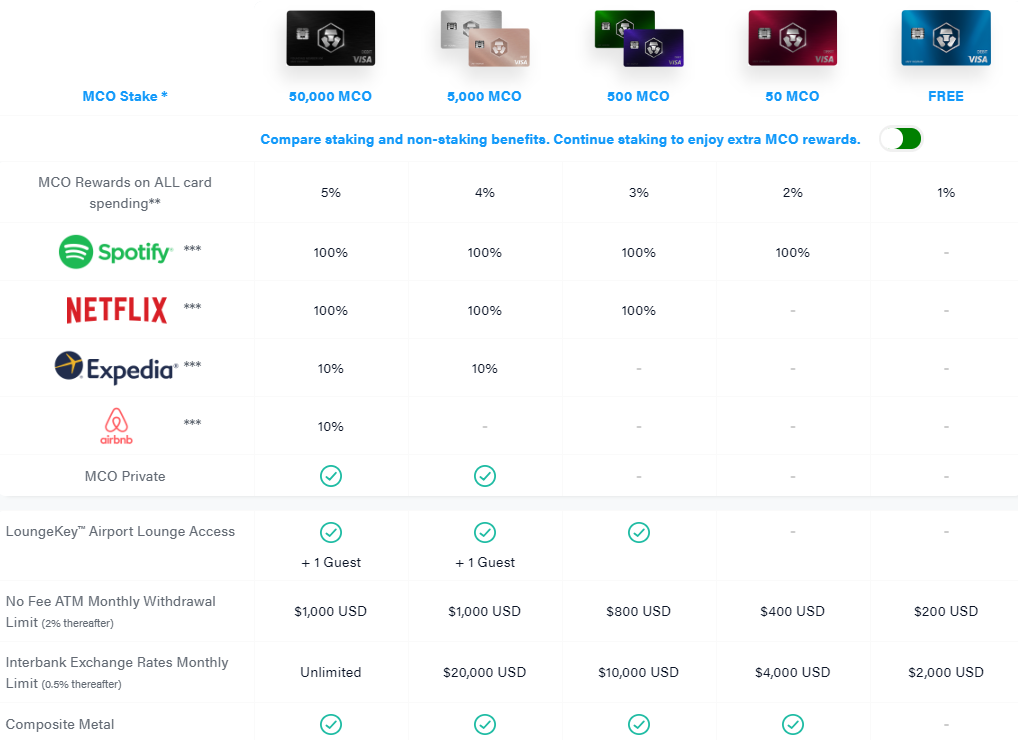
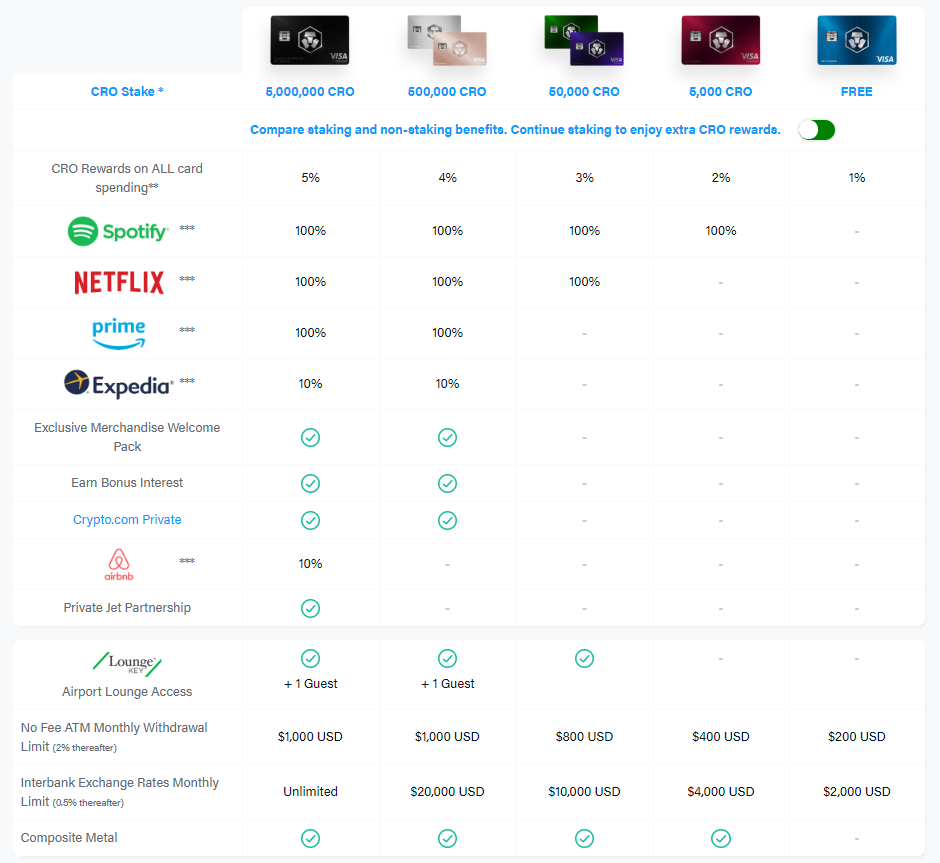
crypto.com changes

diff --git a/_posts/201806/2018-06-27-que-es-crypto.md b/_posts/201806/2018-06-27-que-es-crypto.md
@@ -13,6 +13,11 @@ redirect_from:
 
 La criptomoneda <a rel="nofollow" href="https://platinum.crypto.com/r/h2k1uihz91">CRYPTO</a> anteriormente llamada Monaco (MCO) no resulta demasiado interesante por sí sola, pero es en conjunción de su aplicación de móvil y tarjeta de crédito cuando se convierte en algo a tener muy en cuenta que además compite con otras tarjetas como BNext y Revolut.
 
+**Nota para usuarios existentes**:
+Con fecha <a rel="nofollow" href="https://blog.crypto.com/important-announcement-mco-swap/">3 de Agosto de 2020</a> se ha abierto la posibilidada de realizar un swap por el cual todas las criptomonedas MCO pueden intercambiarse por un total de 27.64 CRO. Todas las funcionalidades anteriormente asociadas a MCO se mantendrán en CRO por lo que no hay ningún motivo por el cual no proceder por el swap. El objetivo de este swap es simplificar el ecosistema de Crypto.com.
+
+Los usuarios nuevos no tienen que realizar ninguna acción adicional salvo adquirir la cantidad de CRO correspondiente a la tarjeta que deseen adquirir.
+
 <!--more-->
 
 <style>
@@ -86,9 +91,9 @@ De estas carteras de fiat es de donde harán uso las tarjetas de crédito detall
 
 ### Tipos de tarjeta
 
-El verdadero producto de Crypto.com son las tarjetas de crédito que ofrecen. Todas que ellas salvo la *Midnight Blue* requieren que el usuario compre una cantidad específica de tokens MCO y los encierre en el ecosistema de Monaco durante 6 meses. Después de este tiempo el usuario será devuelto los tokens con los cuales podrá hacer lo que quiera. Es por ello que **las tarjetas se consideran gratuitas excepto por las variaciones de precio que pudiera tener el token MCO durante dichos 6 meses**.
+El verdadero producto de Crypto.com son las tarjetas de crédito que ofrecen. Todas que ellas salvo la *Midnight Blue* requieren que el usuario compre una cantidad específica de tokens CRO y los encierre en el ecosistema de Monaco durante 6 meses. Después de este tiempo el usuario será devuelto los tokens con los cuales podrá hacer lo que quiera. Es por ello que **las tarjetas se consideran gratuitas excepto por las variaciones de precio que pudiera tener el token CRO durante dichos 6 meses**.
 
-El precio de MCO oscila como el de cualquier activo, históricamente ha estado entre $2 y $8 y puede adquirirse desde dentro de la app como hemos detallado anteriormente.
+El precio de CRO oscila como el de cualquier activo, históricamente ha estado entre $2 y $8 y puede adquirirse desde dentro de la app como hemos detallado anteriormente.
 
 <script type="text/javascript" src="https://files.coinmarketcap.com/static/widget/currency.js"></script>
 <div class="coinmarketcap-currency-widget" data-currencyid="1776" data-base="EUR" data-secondary="USD" data-ticker="false" data-rank="false" data-marketcap="false" data-volume="false" data-statsticker="true" data-stats="USD" style="border:2px solid #e1e5ea !important;border-radius:10px;margin-top:20px"></div>
@@ -97,7 +102,7 @@ Todas las tarjetas son gratuitas en cuanto a costes de mantenimiento y envío de
 
 Todas ellas contarán con soporte 24/7 por personas reales. Existen planes en el roadmap de añadirlas todas a servicios como Apple Pay, Samsung Pay o Google Play pero en lanzamiento no estarán disponibles todavía.
 
-Además todas las tarjetas tienen ventajas adicionales si mantienes tus MCO bloqueados más allá del tiempo inicial requerido, cómo un mayor porcentaje de cashback (dinero devuelto en divisa MCO) o servicios como Spotify y Netflix gratuitos. He marcado en negrita aquellas ventajas que requieren de bloqueo continuado de MCO.
+Además todas las tarjetas tienen ventajas adicionales si mantienes tus CRO bloqueados más allá del tiempo inicial requerido, cómo un mayor porcentaje de cashback (dinero devuelto en divisa CRO) o servicios como Spotify y Netflix gratuitos. He marcado en negrita aquellas ventajas que requieren de bloqueo continuado de CRO.
 
 #### Midnight Blue
 
@@ -105,7 +110,7 @@ Además todas las tarjetas tienen ventajas adicionales si mantienes tus MCO bloq
 
 La tarjeta midnight blue es la más asequible de precio de todas, tiene los siguientes límites:
 
-- MCO a bloquear: 0 MCO
+- CRO a bloquear: 0 CRO
 - Devolución de un 1% de todos los gastos efectuados con la tarjeta.
 - Intercambio interbancario gratis: 2000$ al mes
 - Retirada de cajeros gratis: 200$ al mes
@@ -116,8 +121,8 @@ La tarjeta midnight blue es la más asequible de precio de todas, tiene los sigu
 
 La tarjeta Ruby Steel se caracteriza por:
 
-- MCO a bloquear: 50 MCO
-- **Devolución de un 2% de todos los gastos si seguimos bloqueando MCO**. 1% en caso contrario.
+- CRO a bloquear: 5,000 CRO
+- **Devolución de un 2% de todos los gastos si seguimos bloqueando CRO**. 1% en caso contrario.
 - Intercambio interbancario gratis: 4000$ al mes
 - Retirada de cajeros gratis: 400$ al mes
 - **Spotify gratis (una sola subscripción).**
@@ -127,8 +132,8 @@ La tarjeta Ruby Steel se caracteriza por:
 {% include image_caption.html imageurl="/images/posts/201806/indigo-jade.png" title="Indigo Blue - Jade Green" caption="Indigo Blue - Jade Green" class="mid-size" %}
 
 
-- MCO a bloquear: 500 MCO
-- **Devolución de un 3% de todos los gastos si seguimos bloqueando MCO**. 1.5% en caso contrario.
+- CRO a bloquear: 50,000 CRO
+- **Devolución de un 3% de todos los gastos si seguimos bloqueando CRO**. 1.5% en caso contrario.
 - Loungekey: Acceso al salón VIP Lounge de los aeropuertos.
 - Intercambio interbancario gratis: 10000$ al mes
 - Retirada de cajeros gratis: 800$ al mes
@@ -139,8 +144,8 @@ La tarjeta Ruby Steel se caracteriza por:
 
 {% include image_caption.html imageurl="/images/posts/201806/white.png" title="Monaco Icy White" caption="Icy White" class="mid-size" %}
 
-- MCO a bloquear: 5,000 MCO
-- **Devolución de un 4% de todos los gastos si seguimos bloqueando MCO**. 1.75% en caso contrario.
+- CRO a bloquear: 500,000 CRO
+- **Devolución de un 4% de todos los gastos si seguimos bloqueando CRO**. 1.75% en caso contrario.
 - Loungekey: Acceso al salón VIP Lounge de los aeropuertos + 1 acompañante.
 - Intercambio interbancario gratis: 10000$ al mes
 - Retirada de cajeros gratis: 800$ al mes
@@ -155,8 +160,8 @@ La tarjeta Ruby Steel se caracteriza por:
 
 {% include image_caption.html imageurl="/images/posts/201806/black.png" title="Monaco Black" caption="Black" class="mid-size" %}
 
-- MCO a bloquear: 50,000 MCO
-- **Devolución de un 5% de todos los gastos si seguimos bloqueando MCO**. 2% en caso contrario.
+- CRO a bloquear: 5,000,000 CRO
+- **Devolución de un 5% de todos los gastos si seguimos bloqueando CRO**. 2% en caso contrario.
 - Loungekey: Acceso al salón VIP Lounge de los aeropuertos + 1 acompañante.
 - Intercambio interbancario gratis: Sin límite.
 - Retirada de cajeros gratis: 1000$ al mes
@@ -171,20 +176,6 @@ La tarjeta Ruby Steel se caracteriza por:
 
 {% include image_caption.html imageurl="/images/posts/201806/compare-cards.png" title="Cards Comparison" caption="Comparación de tarjetas" popup=true %}
 
-Adicionalmente se está realizando un airdrop cada mes de la nueva moneda de MCO denominada **Crypto.com Chain (CRO)** en función del número de MCO que tengamos bloqueados. Esta nueva moneda se utilizará para realizar pagos con el móvil aunque también nos servirá para ahorrarnos comisiones a la hora de operar en el Exchange de Crypto.com o conseguir descuentos. Por ejemplo, en uno de los últimos evento <a rel="nofollow" href="https://crypto.com/exchange/syndicate">Syndicate</a> se vendía BTC con un 25% de descuento siempre y cuando tuvieras 500 CRO stakeado en su plataforma.
-
-
-
-### Automated Crypto Invest
-
-Se trata de un servicio de inversión de criptomonedas automático donde la empresa Monaco se encarga de invertir por ti los fondos que decidas. Podría compararse a un fondo de inversión. El usuario no tendría que encargarse de investigar las distintas criptomonedas sino que el equipo de MCO llevarían el fondo. El usuario puede elegir si quiere un perfil conservador o agresivo.
-
-Además Monaco asegura que no cobran comisiones de entrada, salida o mantenimiento, si no que solo cobrarán un 9% de las ganancias que tu obtengas ( o 18% si no tienes MCO bloqueado).
-
-Históricamente este programa <a rel="nofollow" href="https://crypto.com/en/invest.html">ha dado muy buenos resultados</a>.
-
-{% include image_caption.html imageurl="https://crypto.com/images/invest/performance-80caefb4.png" title="Crypto Invest Performance Review" caption="Resultados de Crypto Invest" popup=true %}
-
 ### Crypto Credit
 
 Del mismo modo que ofrece [Salt](/que-es-salt/), es posible conseguir un préstamo en dinero fiat dejando como colateral BTC o MCO con mejores condiciones. En caso de dejar BTC como colateral se recibiría un crédito en fiat por valor de un 40% de la valoración de la criptomoneda en ese tiempo, y por 30% para el caso de MCO. Además las comisiones del crédito variarán en función de cuanto MCO tengamos bloqueado. 
@@ -195,14 +186,14 @@ Por ejemplo por $10000 en BTC usados como colateral recibiremos $4000 en TUSD y 
 
 De la misma manera que podemos pedir un crédito con nuestros fondos, también podemos prestarlo y conseguir un interés constante, a diferencia que el de Crypto Invest que es irregular y sujeto a las condiciones del mercado.
 
-Los retornos anuales que recibiremos de distintas criptomonedas aumentan según si tenemos 500 MCO bloqueados o no, y son los siguientes:
+Los retornos anuales que recibiremos de distintas criptomonedas aumentan según si tenemos 5000 CRO bloqueados o no, y son los siguientes:
 
 {:.table.table-striped.table-bordered.table-hover.table-condensed.table-collapsable}
-| Tiempo   | Criptomonedas     | Stablecoins           | CRO     |  MCO  |
-|:--------:|:-----------------:|:---------------------:|:------:-|:-----:|
-| 3 meses  | 4%-6%             | 10%-12%               | 16%-18% | 4%-8% |
-| 1 mes    | 2%-4%             | 8%-10%                | 16%-14% | 2%-4% |  
-| flexible | 1%-2%             | 6%-8%                 | 12%-14% | 1%-2% |
+| Tiempo   | Criptomonedas     | Stablecoins           | CRO     |
+|:--------:|:-----------------:|:---------------------:|:------:-|
+| 3 meses  | 4%-6%             | 10%-12%               | 16%-18% |
+| 1 mes    | 2%-4%             | 8%-10%                | 16%-14% |
+| flexible | 1%-2%             | 6%-8%                 | 12%-14% |
 
 Con las siguientes excepciones:
 
@@ -210,10 +201,9 @@ Con las siguientes excepciones:
 
 Crypto Earn es una fantástica manera de conseguir rendimiento sobre nuestras criptomonedas de manera constante y con muy poco riesgo.
 
-Por ejemplo si tuvieramos 500 MCO bloqueado (y en consecuencia los beneficios de la tarjeta correspondiente) podríamos rentabilizar:
-- un 8% de esos 500 MCO (40 MCO al año)
+Por ejemplo si tuvieramos 5000 CRO bloqueado (y en consecuencia los beneficios de la tarjeta correspondiente) podríamos rentabilizar:
+- un 18% de esos 5000 CRO (900 CRO al año)
 - un 5.5%  al año de la cantidad de BTC que metieramos
-- Un 18% del CRO que tengamos
 - Un 12% en nuestras stable coins
 - 3% de los gastos que hagamos con la tarjeta
 - Spotify y Netflix gratis
@@ -235,7 +225,7 @@ Para el usuario aparecerá en las webs que lo tengan así habilitado un nuevo bo
 
 ## Rewards
 
-Adicionalmente Monaco está ofreciendo $50 a todos aquellos usuarios que se registren con <a rel="nofollow" href="https://platinum.crypto.com/r/h2k1uihz91">un enlace de referido</a> así como a la persona que refiere siempre y cuando acaben bloquenado algo de MCO.
+Adicionalmente Monaco está ofreciendo $50 a todos aquellos usuarios que se registren con <a rel="nofollow" href="https://platinum.crypto.com/r/h2k1uihz91">un enlace de referido</a> así como a la persona que refiere siempre y cuando acaben bloquenado suficiente CRO como para obtener la tarjeta Ruby.
 
 ## Equipo
 
@@ -251,11 +241,11 @@ Con fecha 6 de Julio de 2018, el equipo de Monaco ha hecho un rebranding de su e
 
 ## Dónde comprar
 
-Principalmente el mejor sitio donde comprar MCO o CRO es <a rel="nofollow" href="https://platinum.crypto.com/r/h2k1uihz91">en la propia aplicación de CRYPTO</a>.
+Principalmente el mejor sitio donde comprar CRO es <a rel="nofollow" href="https://platinum.crypto.com/r/h2k1uihz91">en la propia aplicación de CRYPTO</a>.
 
-## Dónde almacenar MCO
+## Dónde almacenar CRO
 
-Al tratarse de una moneda ERC-20, MCO se puede almacenar en cualquier cartera que soporte Ethereum utilizando la misma dirección sin problemas. Puede parecer que algunos wallets, como blockchain.info, no soportan monedas ERC-20 a pesar de soportar Ethereum. En realidad si enviarais vuestros fondos allí no los perderíais, estarían correctamente guardados, pero no los podréis visualizar desde la web a día de hoy, para hacerlo deberíais importar la clave privada de blockchain.info a un wallet que si lo soporte. No obstante debido a la cantidad de ventajas que tiene el bloqueo de MCO resulta beneficioso almacenarlas directamente en su aplicación a pesar de no tener la clave privada bajo nuestro control.
+Al tratarse de una moneda ERC-20, CRO se puede almacenar en cualquier cartera que soporte Ethereum utilizando la misma dirección sin problemas. Puede parecer que algunos wallets, como blockchain.info, no soportan monedas ERC-20 a pesar de soportar Ethereum. En realidad si enviarais vuestros fondos allí no los perderíais, estarían correctamente guardados, pero no los podréis visualizar desde la web a día de hoy, para hacerlo deberíais importar la clave privada de blockchain.info a un wallet que si lo soporte. No obstante debido a la cantidad de ventajas que tiene el bloqueo de CRO resulta beneficioso almacenarlas directamente en su aplicación a pesar de no tener la clave privada bajo nuestro control.
 
 ## Opinión
 
@@ -263,9 +253,9 @@ La idea de Monaco es potenciar la adopción en masa de las criptomonedas apostan
 
 Es importante tener en cuenta que no se trata de un wallet al no proveer la clave privada, por lo que deberíamos ir metiendo fondos en forma de criptomonedas con precaución.
 
-Es interesante el modo en que se genera escasez de la criptomoneda animando a los usuarios a bloquear los fondos a cambio de ciertas recompensas, pero habría que ver que ocurre con el valor del MCO una vez se venga abajo el crecimiento de nuevos usuarios de la tarjeta aún contando con una base de usuarios sólida. Lo normal es esperar que no impacte al producto en sí puesto que me es evidente que **la creación de una criptomoneda propia para la tarjeta era algo totalmente innecesario** y por tanto el producto debería poder sobrevivir sin ella.
+Es interesante el modo en que se genera escasez de la criptomoneda animando a los usuarios a bloquear los fondos a cambio de ciertas recompensas, pero habría que ver que ocurre con el valor del CRO una vez se venga abajo el crecimiento de nuevos usuarios de la tarjeta aún contando con una base de usuarios sólida. Lo normal es esperar que no impacte al producto en sí puesto que me es evidente que **la creación de una criptomoneda propia para la tarjeta era algo totalmente innecesario** y por tanto el producto debería poder sobrevivir sin ella.
 
-Podeis registraros <a rel="nofollow" href="https://platinum.crypto.com/r/h2k1uihz91">aquí</a> a través del móvil y obtener $50 en MCO después de reservar vuestra tarjeta.
+Podeis registraros <a rel="nofollow" href="https://platinum.crypto.com/r/h2k1uihz91">aquí</a> a través del móvil y obtener $50 en CRO después de reservar vuestra tarjeta.
 
 
 
